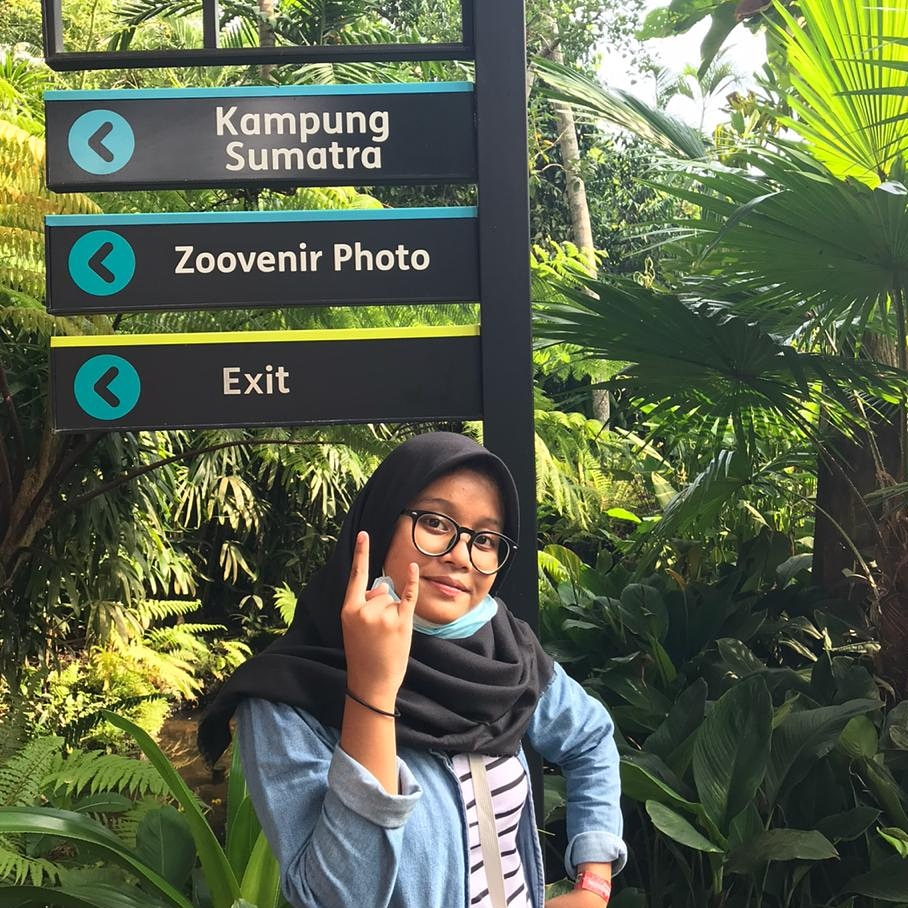
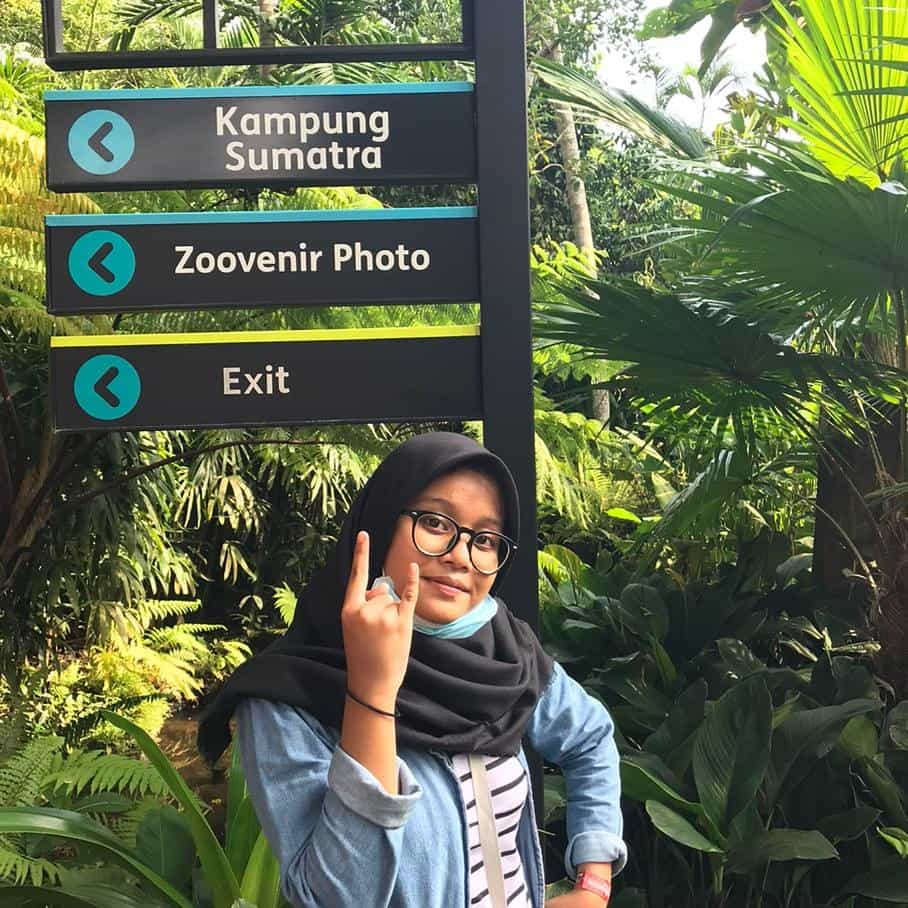
resize gambar

diff --git a/index.html b/index.html
@@ -19,7 +19,7 @@
     <link rel="icon" href="favicon.ico" type="image/x-icon" />
     <title>Fanisa Tasya Website</title>
   </head>
-  <body>
+  <body id="home">
     <!-- navbar -->
     <nav class="navbar navbar-expand-lg navbar-dark fixed-top" style="background-color: #3261e0">
       <div class="container">
@@ -33,16 +33,16 @@
         <div class="collapse navbar-collapse" id="navbarNav">
           <ul class="navbar-nav ms-auto">
             <li class="nav-item">
-              <a class="nav-link active" aria-current="page" href="#">Home</a>
+              <a class="nav-link active" aria-current="page" href="#home">Home</a>
             </li>
             <li class="nav-item">
-              <a class="nav-link" href="#">Tentang</a>
+              <a class="nav-link" href="#about">Tentang</a>
             </li>
             <li class="nav-item">
-              <a class="nav-link" href="#">Mini Galeri</a>
+              <a class="nav-link" href="#mini">Mini Galeri</a>
             </li>
             <li class="nav-item">
-              <a class="nav-link" href="#">Kontak</a>
+              <a class="nav-link" href="#kontak">Kontak</a>
             </li>
           </ul>
         </div>

diff --git a/style.css b/style.css
@@ -4,7 +4,7 @@
 }
 
 section {
-  padding-top: 4rem;
+  padding-top: 5rem;
 }
 #mini {
   background-color: #e2edff;
